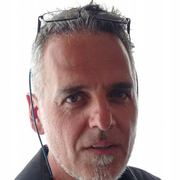
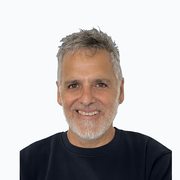
Replace profile photo with background removed
New 600x600 portrait, green screen keyed out and the fringe despilled,
background baked to the page colour so the avatar's circle edge is
defined only by its border.

One square file serves both the avatar and og:image. Because the source
is square, object-fit: cover at 110x110 crops nothing. 33KB replaces the
49KB 512x722 profile2020.jpg, which nothing references any more.

Regenerate the apple-touch-icon from the same photo, and add
og:image:width, height and alt.

diff --git a/index.html b/index.html
@@ -12,7 +12,10 @@
     <meta property="og:url" content="https://www.pablomedina.dev/" />
     <meta property="og:title" content="Pablo Medina, Senior Backend Developer &amp; Cloud Engineer" />
     <meta property="og:description" content="Senior backend developer with 20+ years of experience. Top Rated Plus consultant on Upwork, 100% Job Success, 23,526+ hours delivered." />
-    <meta property="og:image" content="https://www.pablomedina.dev/assets/img/profile2020.jpg" />
+    <meta property="og:image" content="https://www.pablomedina.dev/assets/img/profile.jpg" />
+    <meta property="og:image:width" content="600" />
+    <meta property="og:image:height" content="600" />
+    <meta property="og:image:alt" content="Portrait of Pablo Medina" />
     <meta name="twitter:card" content="summary" />
 
     <link rel="icon" href="assets/ico/favicon.ico" sizes="any" />
@@ -192,7 +195,7 @@
         <div class="header-left">
           <img
               class="logo"
-              src="assets/img/profile2020.jpg"
+              src="assets/img/profile.jpg"
               width="110"
               height="110"
               title="Yes, it's me"
